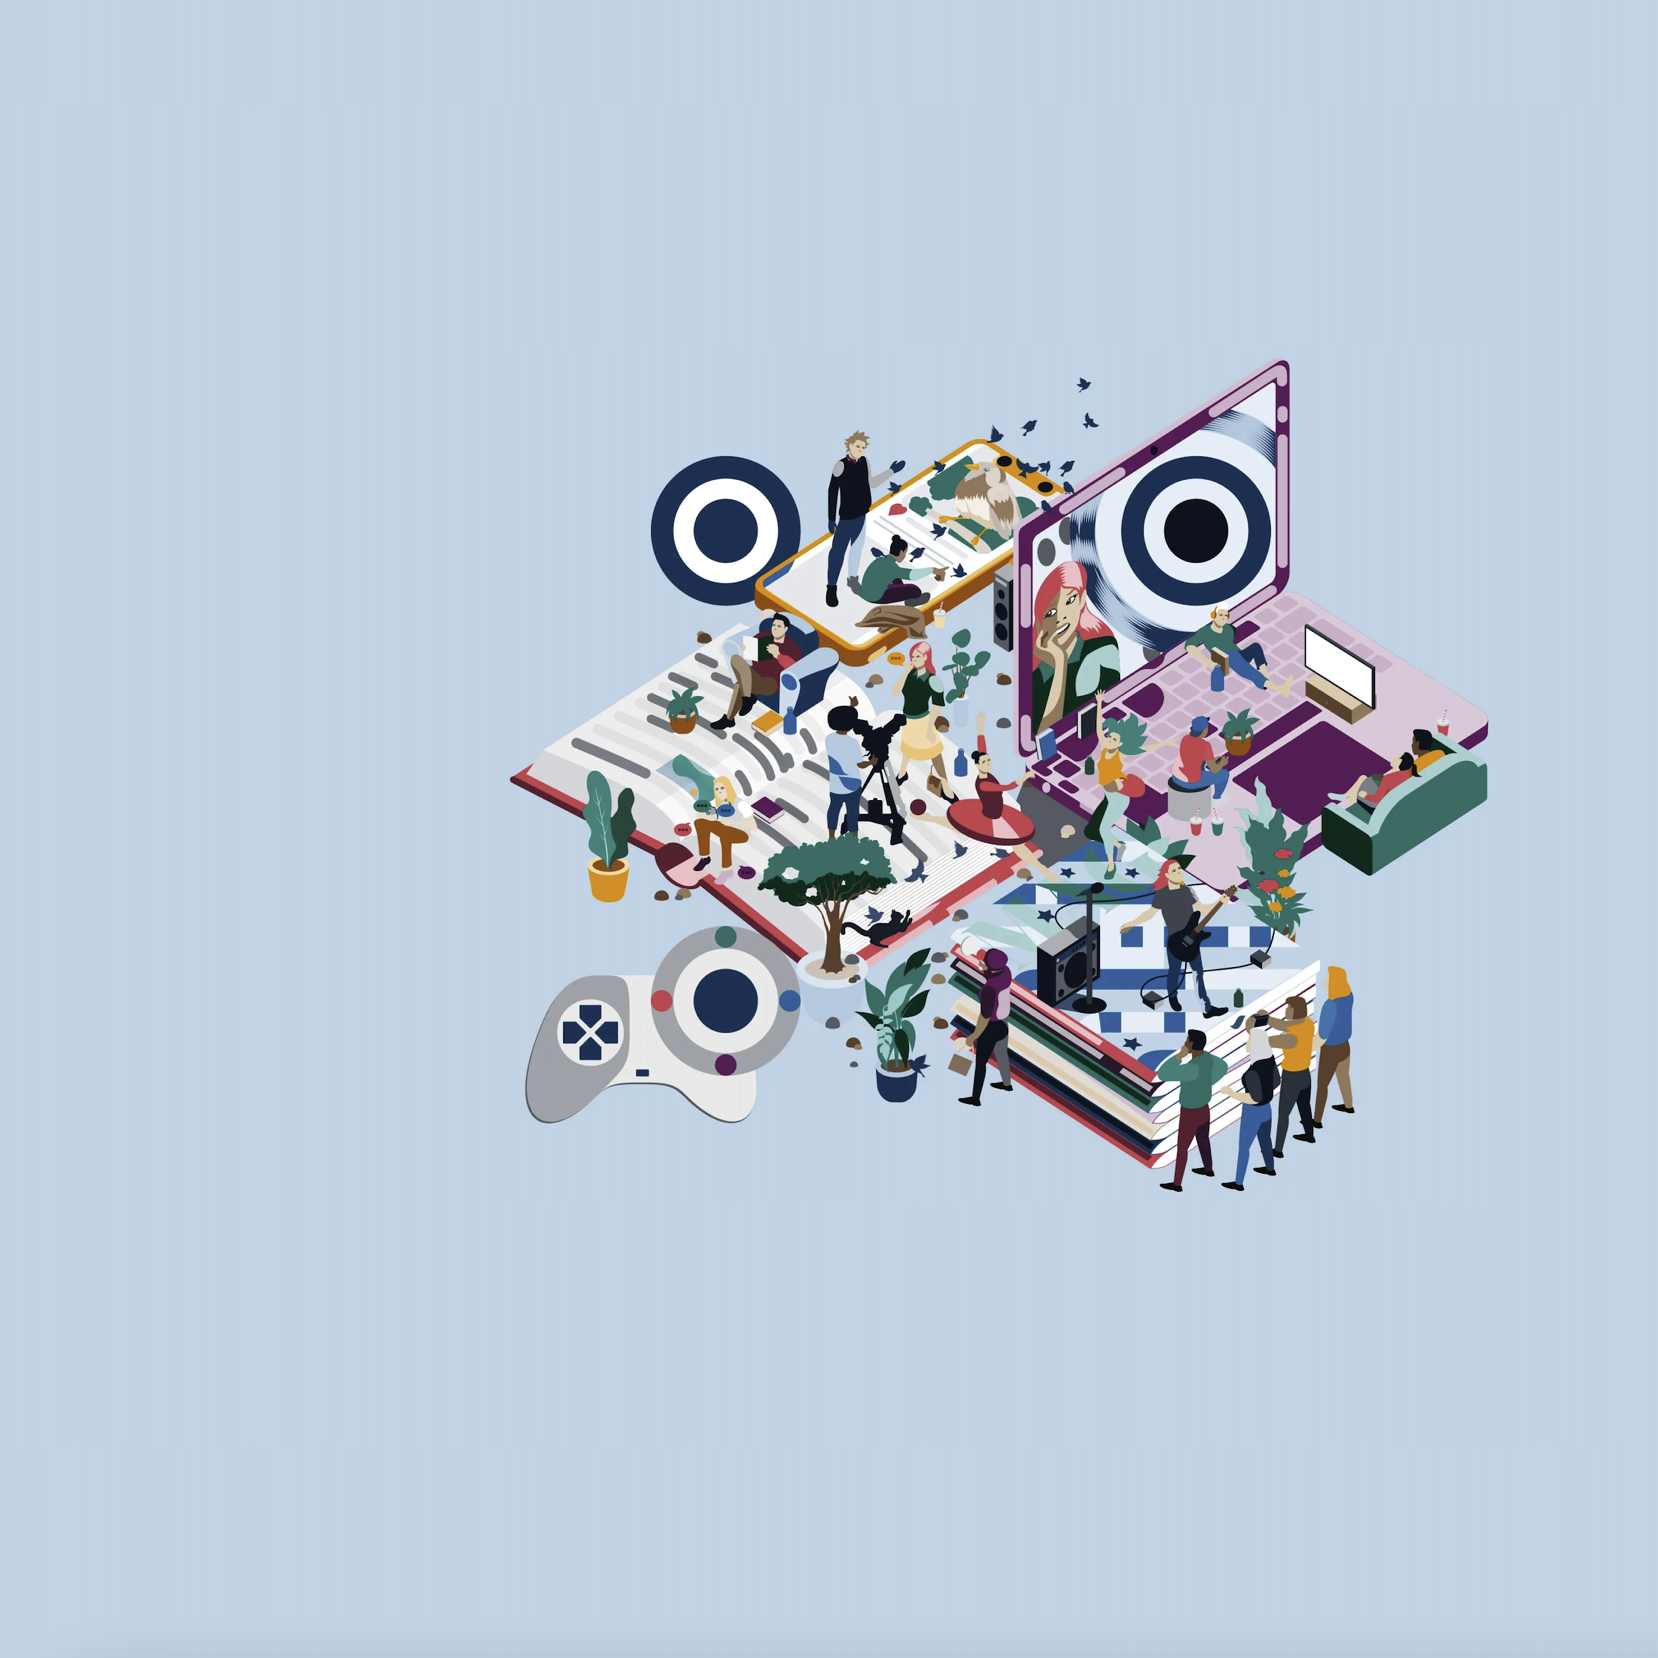
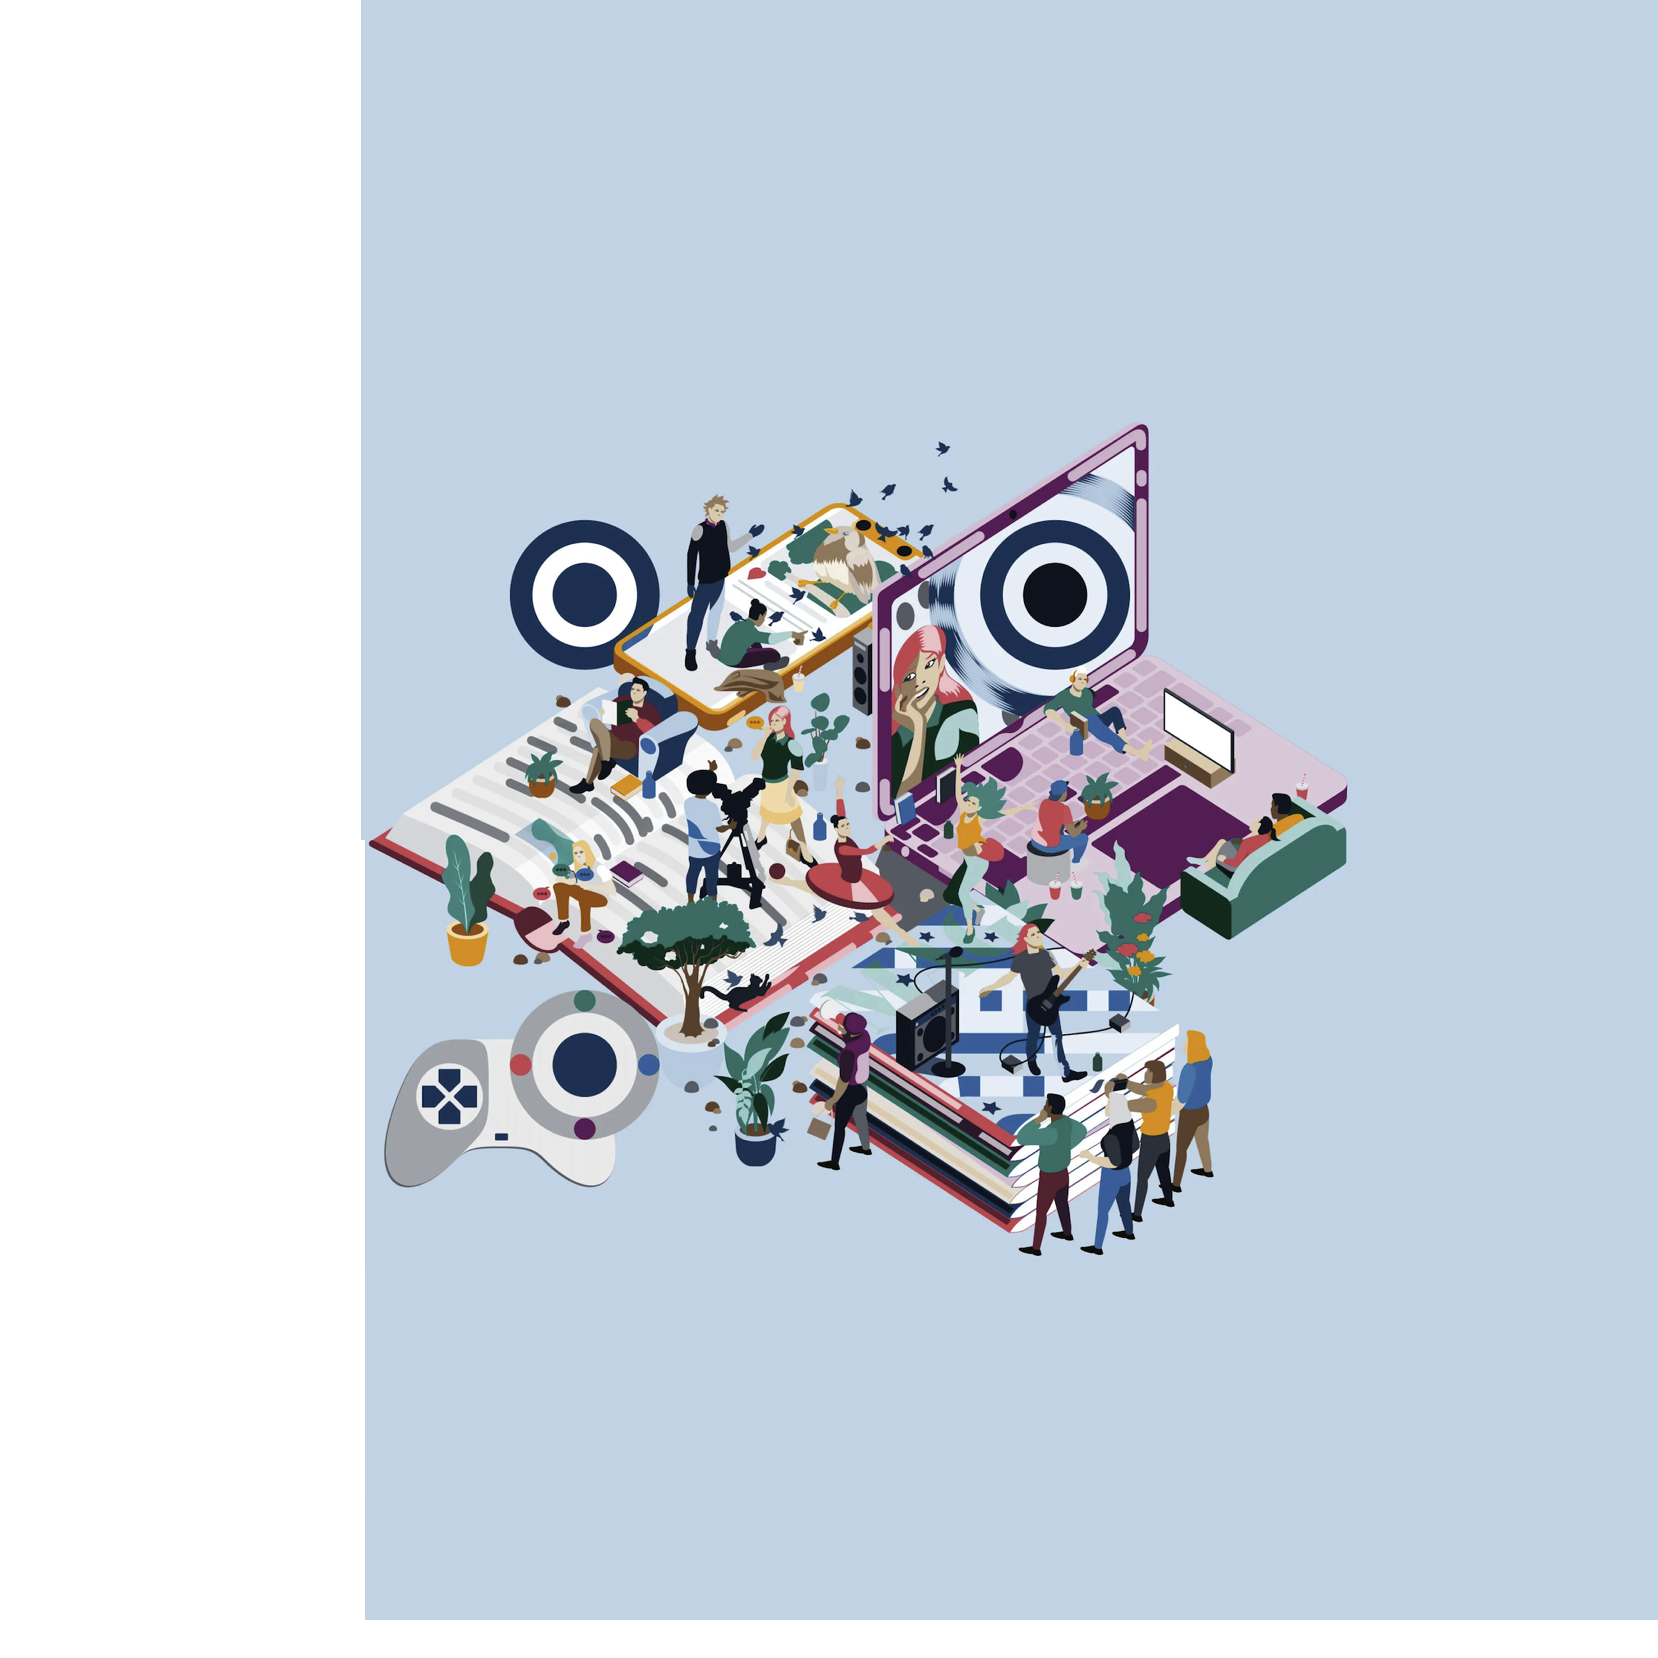
SIGN UP STYLE (big screen) FINISHED BY VALENTINO ON HIPPOLYTE MAC

diff --git a/public/css/app.css b/public/css/app.css
@@ -903,6 +903,12 @@ select {
 .ml-8 {
   margin-left: 2rem;
 }
+.ml-12 {
+  margin-left: 3rem;
+}
+.mr-6 {
+  margin-right: 1.5rem;
+}
 .block {
   display: block;
 }
@@ -965,6 +971,9 @@ select {
 }
 .h-28 {
   height: 7rem;
+}
+.h-1 {
+  height: 0.25rem;
 }
 .min-h-full {
   min-height: 100%;
@@ -1990,6 +1999,12 @@ input{
   box-shadow: var(--tw-ring-offset-shadow), var(--tw-ring-shadow), var(--tw-shadow, 0 0 #0000);
 }
 
+.hover\:ring-1:hover {
+  --tw-ring-offset-shadow: var(--tw-ring-inset) 0 0 0 var(--tw-ring-offset-width) var(--tw-ring-offset-color);
+  --tw-ring-shadow: var(--tw-ring-inset) 0 0 0 calc(1px + var(--tw-ring-offset-width)) var(--tw-ring-color);
+  box-shadow: var(--tw-ring-offset-shadow), var(--tw-ring-shadow), var(--tw-shadow, 0 0 #0000);
+}
+
 .hover\:ring-brandcolor-fifth500:hover {
   --tw-ring-opacity: 1;
   --tw-ring-color: rgb(242 193 46 / var(--tw-ring-opacity));
@@ -2645,6 +2660,16 @@ input{
   .xl\:px-24 {
     padding-left: 6rem;
     padding-right: 6rem;
+  }
+
+  .xl\:px-12 {
+    padding-left: 3rem;
+    padding-right: 3rem;
+  }
+
+  .xl\:px-6 {
+    padding-left: 1.5rem;
+    padding-right: 1.5rem;
   }
 
   .xl\:text-6xl {

diff --git a/resources/views/auth/signup.blade.php b/resources/views/auth/signup.blade.php
@@ -5,10 +5,10 @@
     <div class="min-h-full w-screen flex bg-kit-blue-light shadow-lg">
 
         <!--====== LEFT BODY  ======-->
-        <div class="h-screen flex-1 flex flex-col justify-center py-12 px-4 sm:px-6 lg:flex-none lg:px-20 xl:px-24">
+        <div  class="h-screen flex-1 flex flex-col justify-center py-12  lg:flex-none ">
 
             <!--====== SMALL SCREEN BODY  ======-->
-            <div class="xl:hidden">
+            <div  class="xl:hidden">
             <form class="-mt-52" action="{{ route('signup-post') }}" method="post">
                 {{ csrf_field() }}
                 <h1 class="mt-4 text-4xl tracking-tight font-bold text-kit-blue-dark sm:mt-5 sm:text-6xl lg:mt-6 xl:text-6xl">
@@ -20,7 +20,7 @@
                 <label for="email" class="block text-sm font-medium text-gray-700 mt-24"> Email address </label>
                 <input id="email" name="email" value="{{ old('email') }}"
                        type="text" autocomplete="current-email"
-                       class="appearance-none block w-full border border-none rounded-full shadow-sm placeholder-gray-400 focus:outline-none focus:ring-kit-blue-dark focus:border-kit-blue-dark w-9/12">
+                       class="mr-4 appearance-none block w-full border border-none rounded-full shadow-sm placeholder-gray-400 focus:outline-none focus:ring-kit-blue-dark focus:border-kit-blue-dark w-9/12">
                 @if($errors->has('email'))
                     <div class="bg-red-50 border-l-4 border-red-400 p-2 mt-1.5">
                         <div class="flex">
@@ -51,22 +51,22 @@
 
 
             <!--====== BIG SCREEN BODY  ======-->
-            <div class="mx-auto w-full hidden xl:block">
+            <div style="width: 100%" class="mx-auto w-full hidden xl:block ">
 
                 <div class="mt-8" >
 
-                    <div class="mt-6">
-                        <form style="margin-top: -80px" class="space-y-6 hidden xl:block" action="{{ route('signup-post') }}" method="post">
+                    <div  class="mt-6">
+                        <form style="margin-top: -80px; " class="space-y-6 hidden xl:block" action="{{ route('signup-post') }}" method="post">
                             {{ csrf_field() }}
-                            <h1 style="width: 35vw; color: rgba(23,67,99,255)" class="text-white font-semibold ml-20 text-6xl"> Store your data in a single application and manage your QR</h1>
-                            <div style="width: 34vw" class="flex relative ml-20">
+                            <h1 style="width: 35vw; color: rgba(23,67,99,255); margin-left: 9vw;" class="text-white font-semibold text-6xl"> Store your data in a single application and manage your QR</h1>
+                            <div style="width: 34vw" class="flex relative">
 
-                                <div>
+                                <div style="margin-right: 100px; margin-left:9vw">
                                     {{--                                   <label for="email" class=" ml-6 block text-sm font-medium text-gray-700"> Email </label>--}}
                                     <div class="mt-1">
                                     <input style="width: 25vw" id="email" name="email" value="{{ old('email') }}"
                                            type="text" autocomplete="current-email"
-                                           class="h-14 appearance-none block w-full px-3 py-2 border border-gray-300 rounded-full shadow-sm placeholder-gray-400 focus:outline-none focus:ring-kit-blue-dark focus:border-kit-blue-dark sm:text-sm">
+                                           class=" h-14 appearance-none block w-full px-3 py-2 border border-gray-300 rounded-full shadow-sm placeholder-gray-400 focus:outline-none focus:ring-kit-blue-dark focus:border-kit-blue-dark sm:text-sm">
 
                                     @if($errors->has('email'))
                                             <div class="bg-red-50 border-l-4 border-red-400 p-2 mt-1.5">
@@ -110,9 +110,9 @@
                                     </div>
                                 </div>
 
-                                <div class="flex">
+                                <div style="margin-left: -90px; z-index: 4; margin-top: 3px; ">
                                     <button type="submit"
-                                            class="bg-kit-blue-dark h-14 absolute bottom-0 right-0 w-36 mr-auto h-10 justify-center py-2 px-4 border border-transparent rounded-full shadow-sm text-sm font-medium text-white bg-kit-blue-dark hover:bg-kit-blue-dark focus:outline-none focus:ring-2 focus:ring-offset-2 focus:ring-kit-blue-dark">
+                                            class="bg-kit-blue-dark h-14 bottom-0 right-0 w-36 mr-auto h-10 justify-center py-2 px-4 border border-transparent rounded-full shadow-sm text-sm font-medium text-white bg-kit-blue-dark hover:bg-kit-blue-dark focus:outline-none focus:ring-2 focus:ring-offset-2 focus:ring-kit-blue-dark">
                                         Sign up
                                     </button>
                                 </div>
@@ -127,11 +127,11 @@
         <!--====== RIGHT BODY (IMAGE ONLY)  ======-->
 
         <div class="absolute">
-            <img class="absolute" src="{{URL::asset('/images/artqr.png')}}"
+            <img style="margin-top: -200px; margin-right: -300px" class="absolute" src="{{URL::asset('/images/artqr.png')}}"
                  alt="myqrlogo">
         </div>
-        <div class="relative w-0 flex-1 hidden xl:block">
-            <img class="absolute inset-0 w-full object-cover h-screen" src="{{URL::asset('/images/artqr.png')}}"
+        <div style="margin-left: -100px;margin-top: -60px" class="h-screen relative w-0 flex-1 hidden xl:block">
+            <img style="z-index:0; height: 100%; width: 200%" class="absolute inset-0 w-full object-cover h-screen" src="{{URL::asset('/images/artqr.png')}}"
                  alt="myqrlogo">
         </div>
 

diff --git a/resources/views/layouts/homepages.blade.php b/resources/views/layouts/homepages.blade.php
@@ -37,7 +37,7 @@ use Illuminate\Routing\Route;
 
                                         <!--====== HEADER PART  ======-->
 
-                                        <div id="HEADER" class="relative" x-data="{ open: false }">
+                                        <div style="z-index: 3" id="HEADER" class="relative" x-data="{ open: false }">
                                             <!-- computer view -->
                                             <div class="w-full mx-auto px-4 sm:px-6 lg:px-8 pt-0.5">
                                                 <div class="flex w-full	justify-between items-center border-gray-100 py-3 md:justify-around md:space-x-10">
@@ -104,33 +104,27 @@ use Illuminate\Routing\Route;
                                 shadow-sm
                                 text-white
                                 bg-brandcolor-fifth500
-                                ring-2
-                                ring-offset-2
-                                ring-brandcolor-fifth500
+
                                 '
                             :
                                 'text-gray-500
                                 rounded-md
                                 hover:text-white
                                 hover:bg-brandcolor-fifth500
-                                hover:ring-2
-                                hover:ring-offset-2
-                                hover:ring-brandcolor-fifth500
-                                hover:px-4 py-2
+                                px-4 py-2
                                 hover:border
                                 hover:border-transparent
                                 hover:shadow-sm
-
+                                duration-300
                                 '
                         }}">Sign in
                                                         </a>
 
                                                         <a href="{{route('signup')}}" class=" whitespace-nowrap text-base font-medium px-4 py-2
                         {{   Request::routeIs('signup') ?
-                                'ml-8
+                                'px-4 py-2
+                                ml-4
                                 bg-brandcolor-first500
-                                border
-                                border-transparent
                                 rounded-md
                                 shadow-sm
                                 text-white
@@ -139,14 +133,11 @@ use Illuminate\Routing\Route;
                                 'ml-4
                                 text-gray-500
                                 rounded-md
-                                hover:ml-8
                                 hover:bg-brandcolor-first500
-                                hover:border
-                                hover:border-transparent
-                                hover:shadow-sm
                                 hover:text-white
+                                duration-300
                                 '
-                            }} focus:ring-2 focus:ring-offset-2 focus:ring-brandcolor-first500">Get started
+                            }}">Get started
                                                         </a>
 
                                                     </div>

diff --git a/resources/views/components/navlink.blade.php b/resources/views/components/navlink.blade.php
@@ -1,23 +1,22 @@
-<div>
+
     @if (Request::routeIs($name))
     <a href="{{$href}}"
         class="text-base font-medium py-2 px-4 border border-transparent rounded-md text-white {{$color}}"
-        style="background-color: {{$hovercolor}};box-shadow: 0 0 0 2px #ffffff, 0 0 0 4px {{ $hovercolor  }}, 0 0 #0000;">
+        style="">
         {{ $value }}
     </a>
     @else
-        <a href="{{$href}}" id="{{$name}}" class="text-base font-medium py-2 px-4 border border-transparent rounded-md hover:text-white duration-500">
+        <a href="{{$href}}" id="{{$name}}" class="text-base font-medium py-2 px-4 border border-transparent rounded-md hover:text-white duration-300">
             {{ $value }}
         </a>
                 <style>
                     #{{$name}}:hover {
                         background-color: {{ $hovercolor  }};
-                        box-shadow: 0 0 0 2px #ffffff, 0 0 0 4px {{ $hovercolor  }}, 0 0 #0000;
+                        {{--box-shadow: 0 0 0 2px #ffffff, 0 0 0 4px {{ $hovercolor  }}, 0 0 #0000;--}}
                     }
                     #{{$name}}:focus {
                          background-color: {{ $hovercolor  }};
-                         box-shadow: 0 0 0 2px #ffffff, 0 0 0 4px {{ $hovercolor  }}, 0 0 #0000;
+                         {{--box-shadow: 0 0 0 2px #ffffff, 0 0 0 4px {{ $hovercolor  }}, 0 0 #0000;--}}
                      }
                 </style>
     @endif
-</div>
